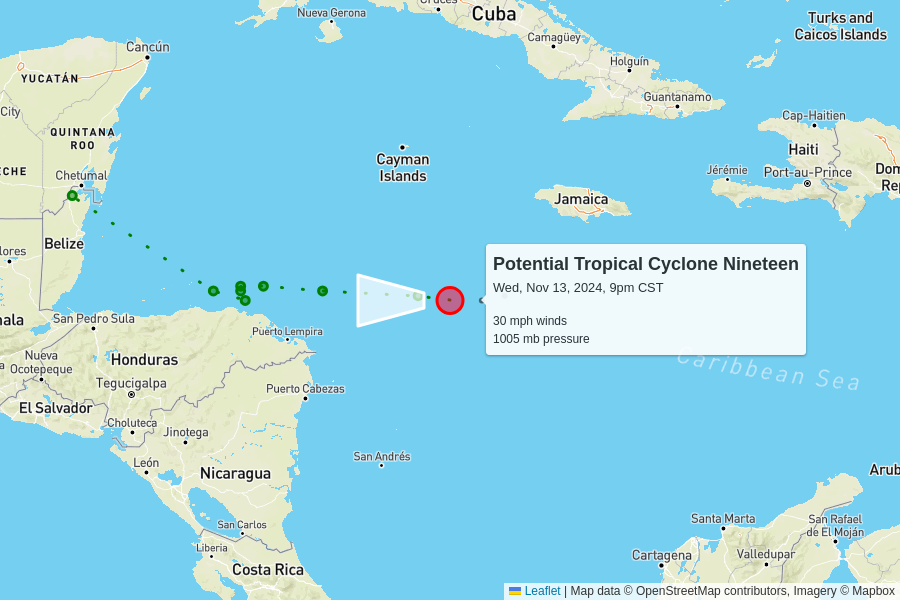
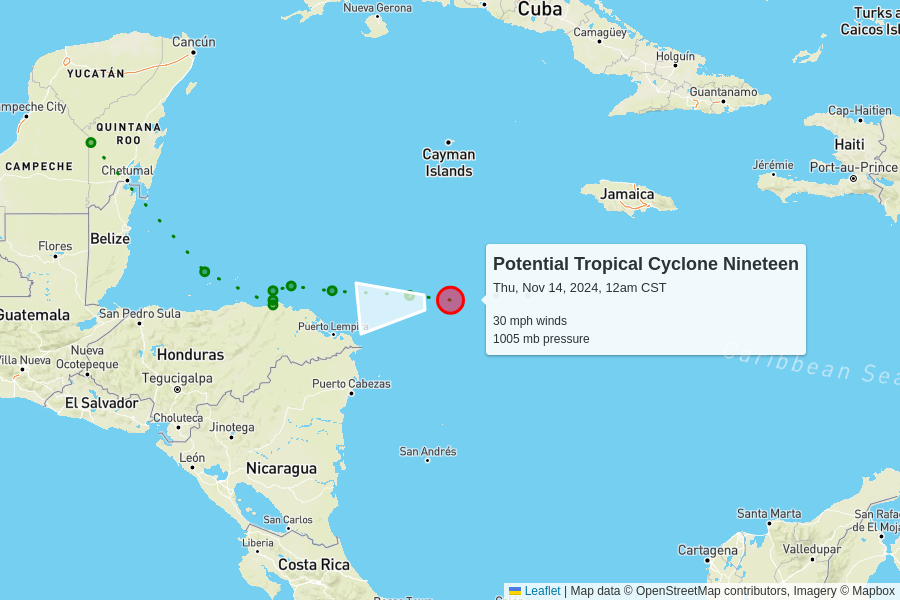
automatic update

diff --git a/docs/index.html b/docs/index.html
@@ -102,7 +102,7 @@
         <td colspan="6" class="storm category-0" >
           <h2>
             Potential Tropical Cyclone Nineteen
-            <p class="updated">last updated <span data-time>2024-11-14T03:00:00.000Z</span></p>
+            <p class="updated">last updated <span data-time>2024-11-14T06:00:00.000Z</span></p>
           </h2>
         </td>
       </tr>
@@ -120,9 +120,9 @@
         <td>30 mph<br>0 mph since last update</td>
         <td>1005 mb<br>0 mb since last update</td>
         <td>
-          9 mph to the west
+          12 mph to the west
           <br/>
-          <span style="display: inline-block; font-size: 1.5em; transform: rotate(270deg);">↑</span>
+          <span style="display: inline-block; font-size: 1.5em; transform: rotate(265deg);">↑</span>
         </td>
         <td><a href="https://raw.githubusercontent.com/mgwalker/atlantic-hurricanes/main/data/csv/AL192024.csv">AL192024.csv</a></td>
         <td><a href="https://www.nhc.noaa.gov/archive/2024/NINETEEN.shtml?">NHC advisories</a></td>
